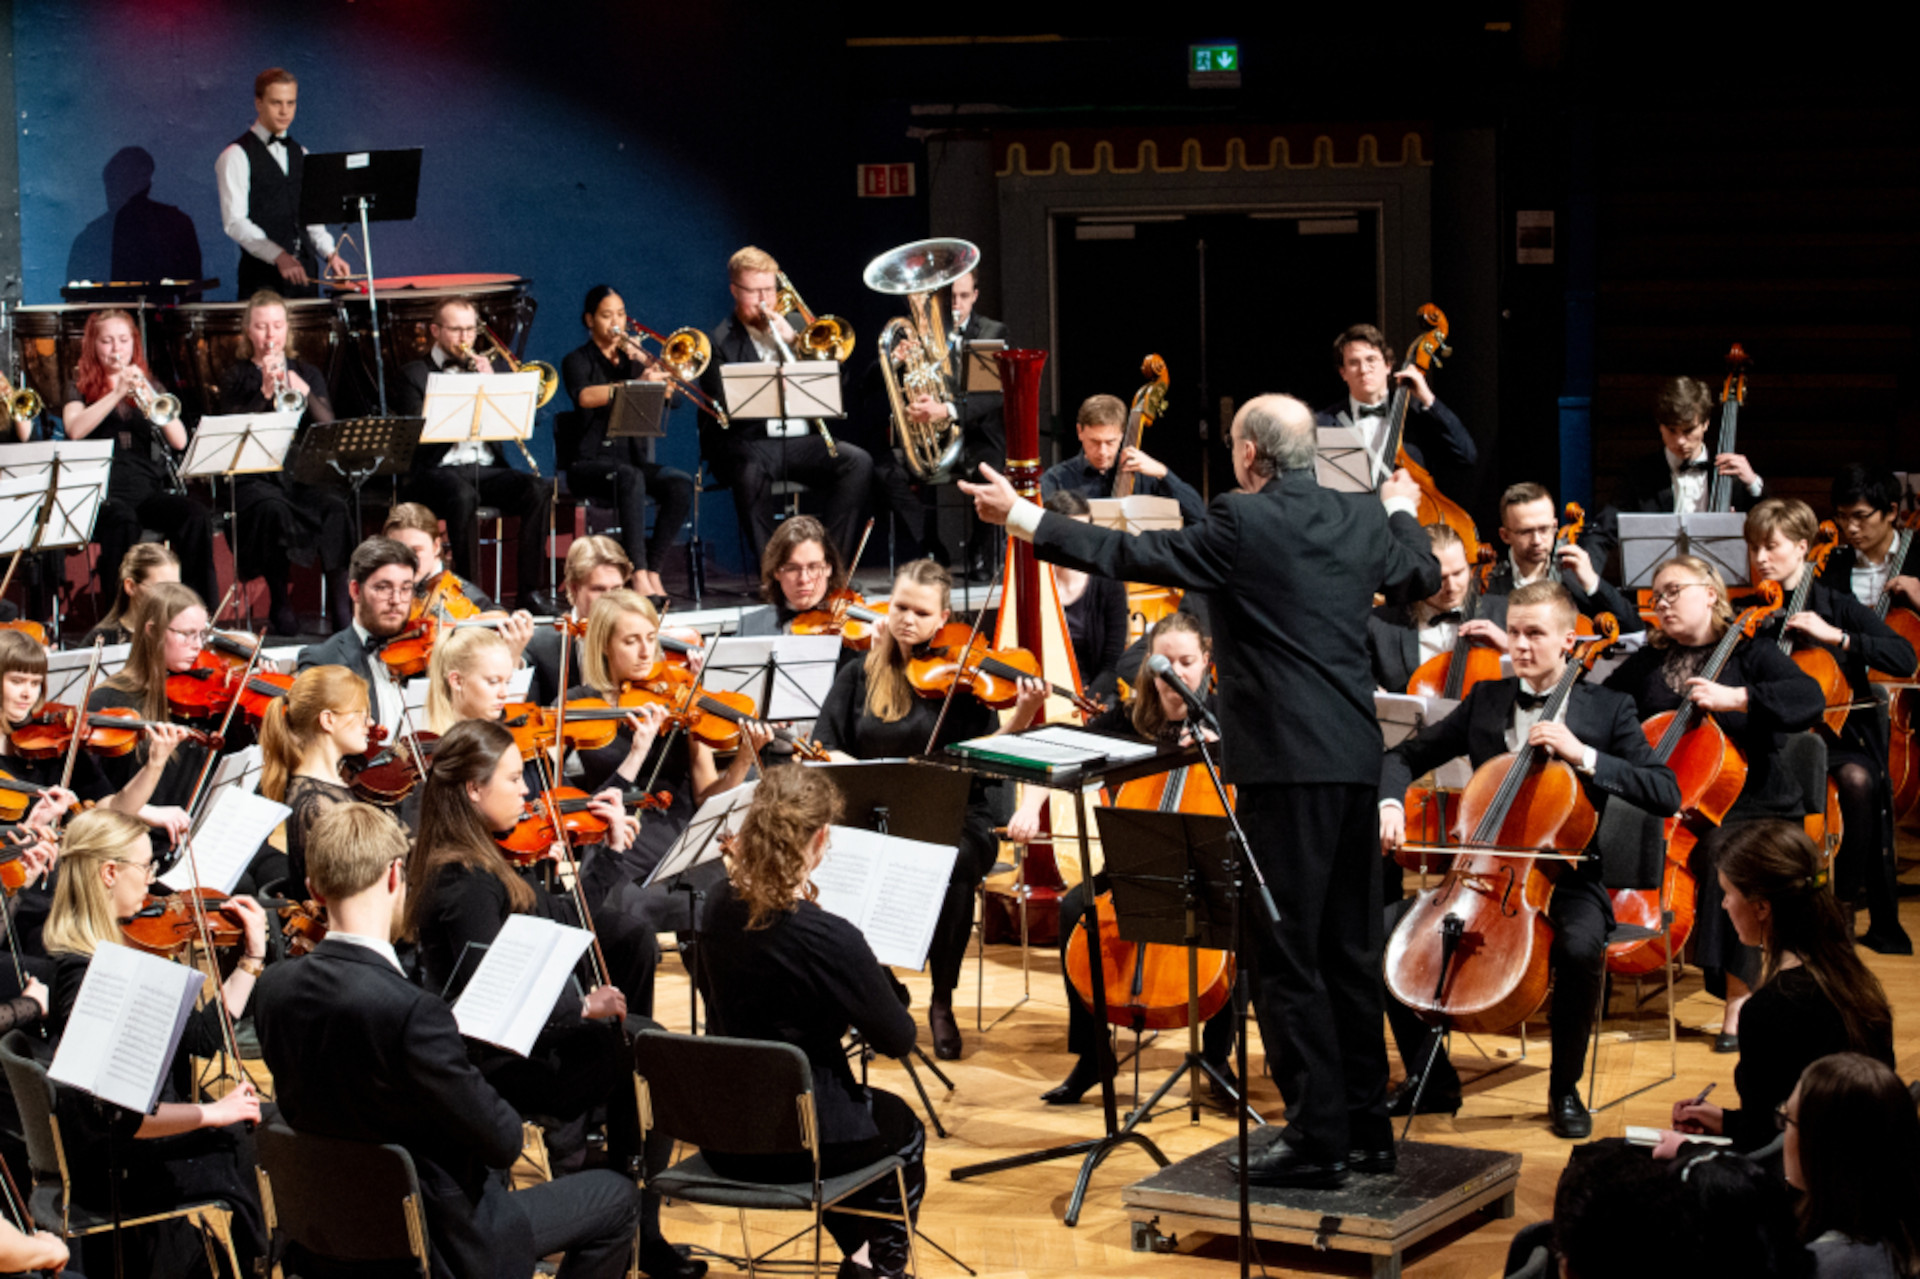
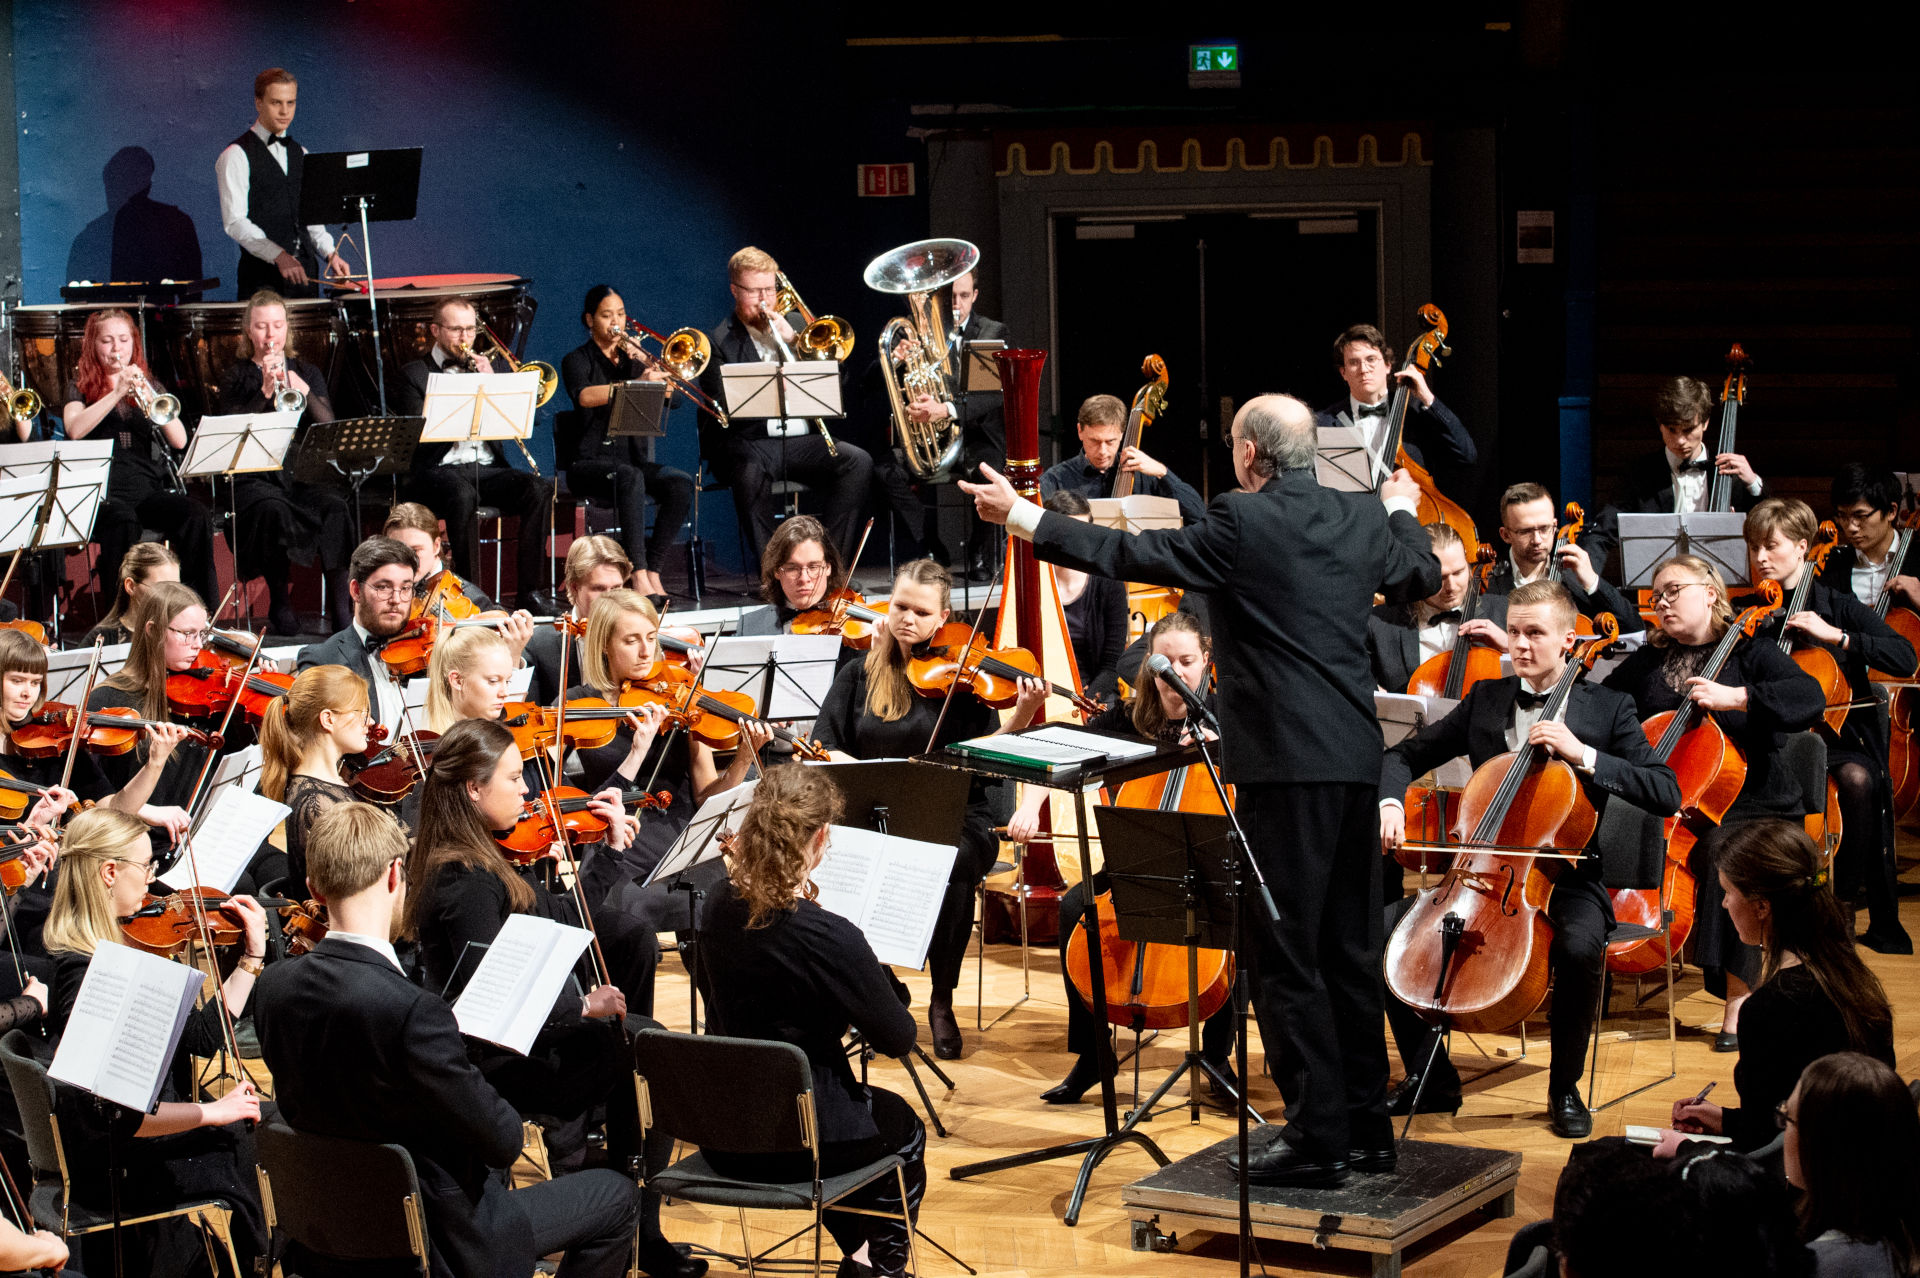
Update slide3 with higher quality and add credit prop to images

diff --git a/src/components/Slideshow.js b/src/components/Slideshow.js
@@ -28,7 +28,8 @@ const Slideshow = () => {
         },
         {
             src: slide3,
-            alt: 'Bilde fra konserten "borte bra, storsalen best" februar 2020'
+            alt: 'Bilde fra konserten "borte bra, storsalen best" februar 2020',
+            credit: 'Foto: foto.samfundet.no'
         }
     ];
 
@@ -41,7 +42,7 @@ const Slideshow = () => {
                 autoPlay={false}
             >
                 {
-                    images.map((image, i) => <Img source={image.src} alt={image.alt} className={classes.img}/>)
+                    images.map((image, i) => <Img source={image.src} alt={image.alt} credit={image.credit} className={classes.img}/>)
                 }
             </Carousel>
         </div>

diff --git a/src/components/Img.js b/src/components/Img.js
@@ -1,9 +1,21 @@
 import React from 'react';
+import { makeStyles } from '@material-ui/core/styles';
+
+const useStyles = makeStyles((theme) => ({
+    credit: {
+        maxWidth: '100%',
+        marginLeft: 'auto',
+        marginRight: 'auto',
+        textAlign: 'center'
+    },
+  }));
 
 const Img = (props) => {
+    const classes = useStyles();
     return(
-        <div>
-            <img src={props.source} alt={props.alt} className={props.className}/>
+        <div className={classes.root}>
+            <img src={props.source} alt={props.alt} className={props.className}/><br />
+            <div className={classes.credit}>{props.credit}</div>
         </div>
     );
 }
